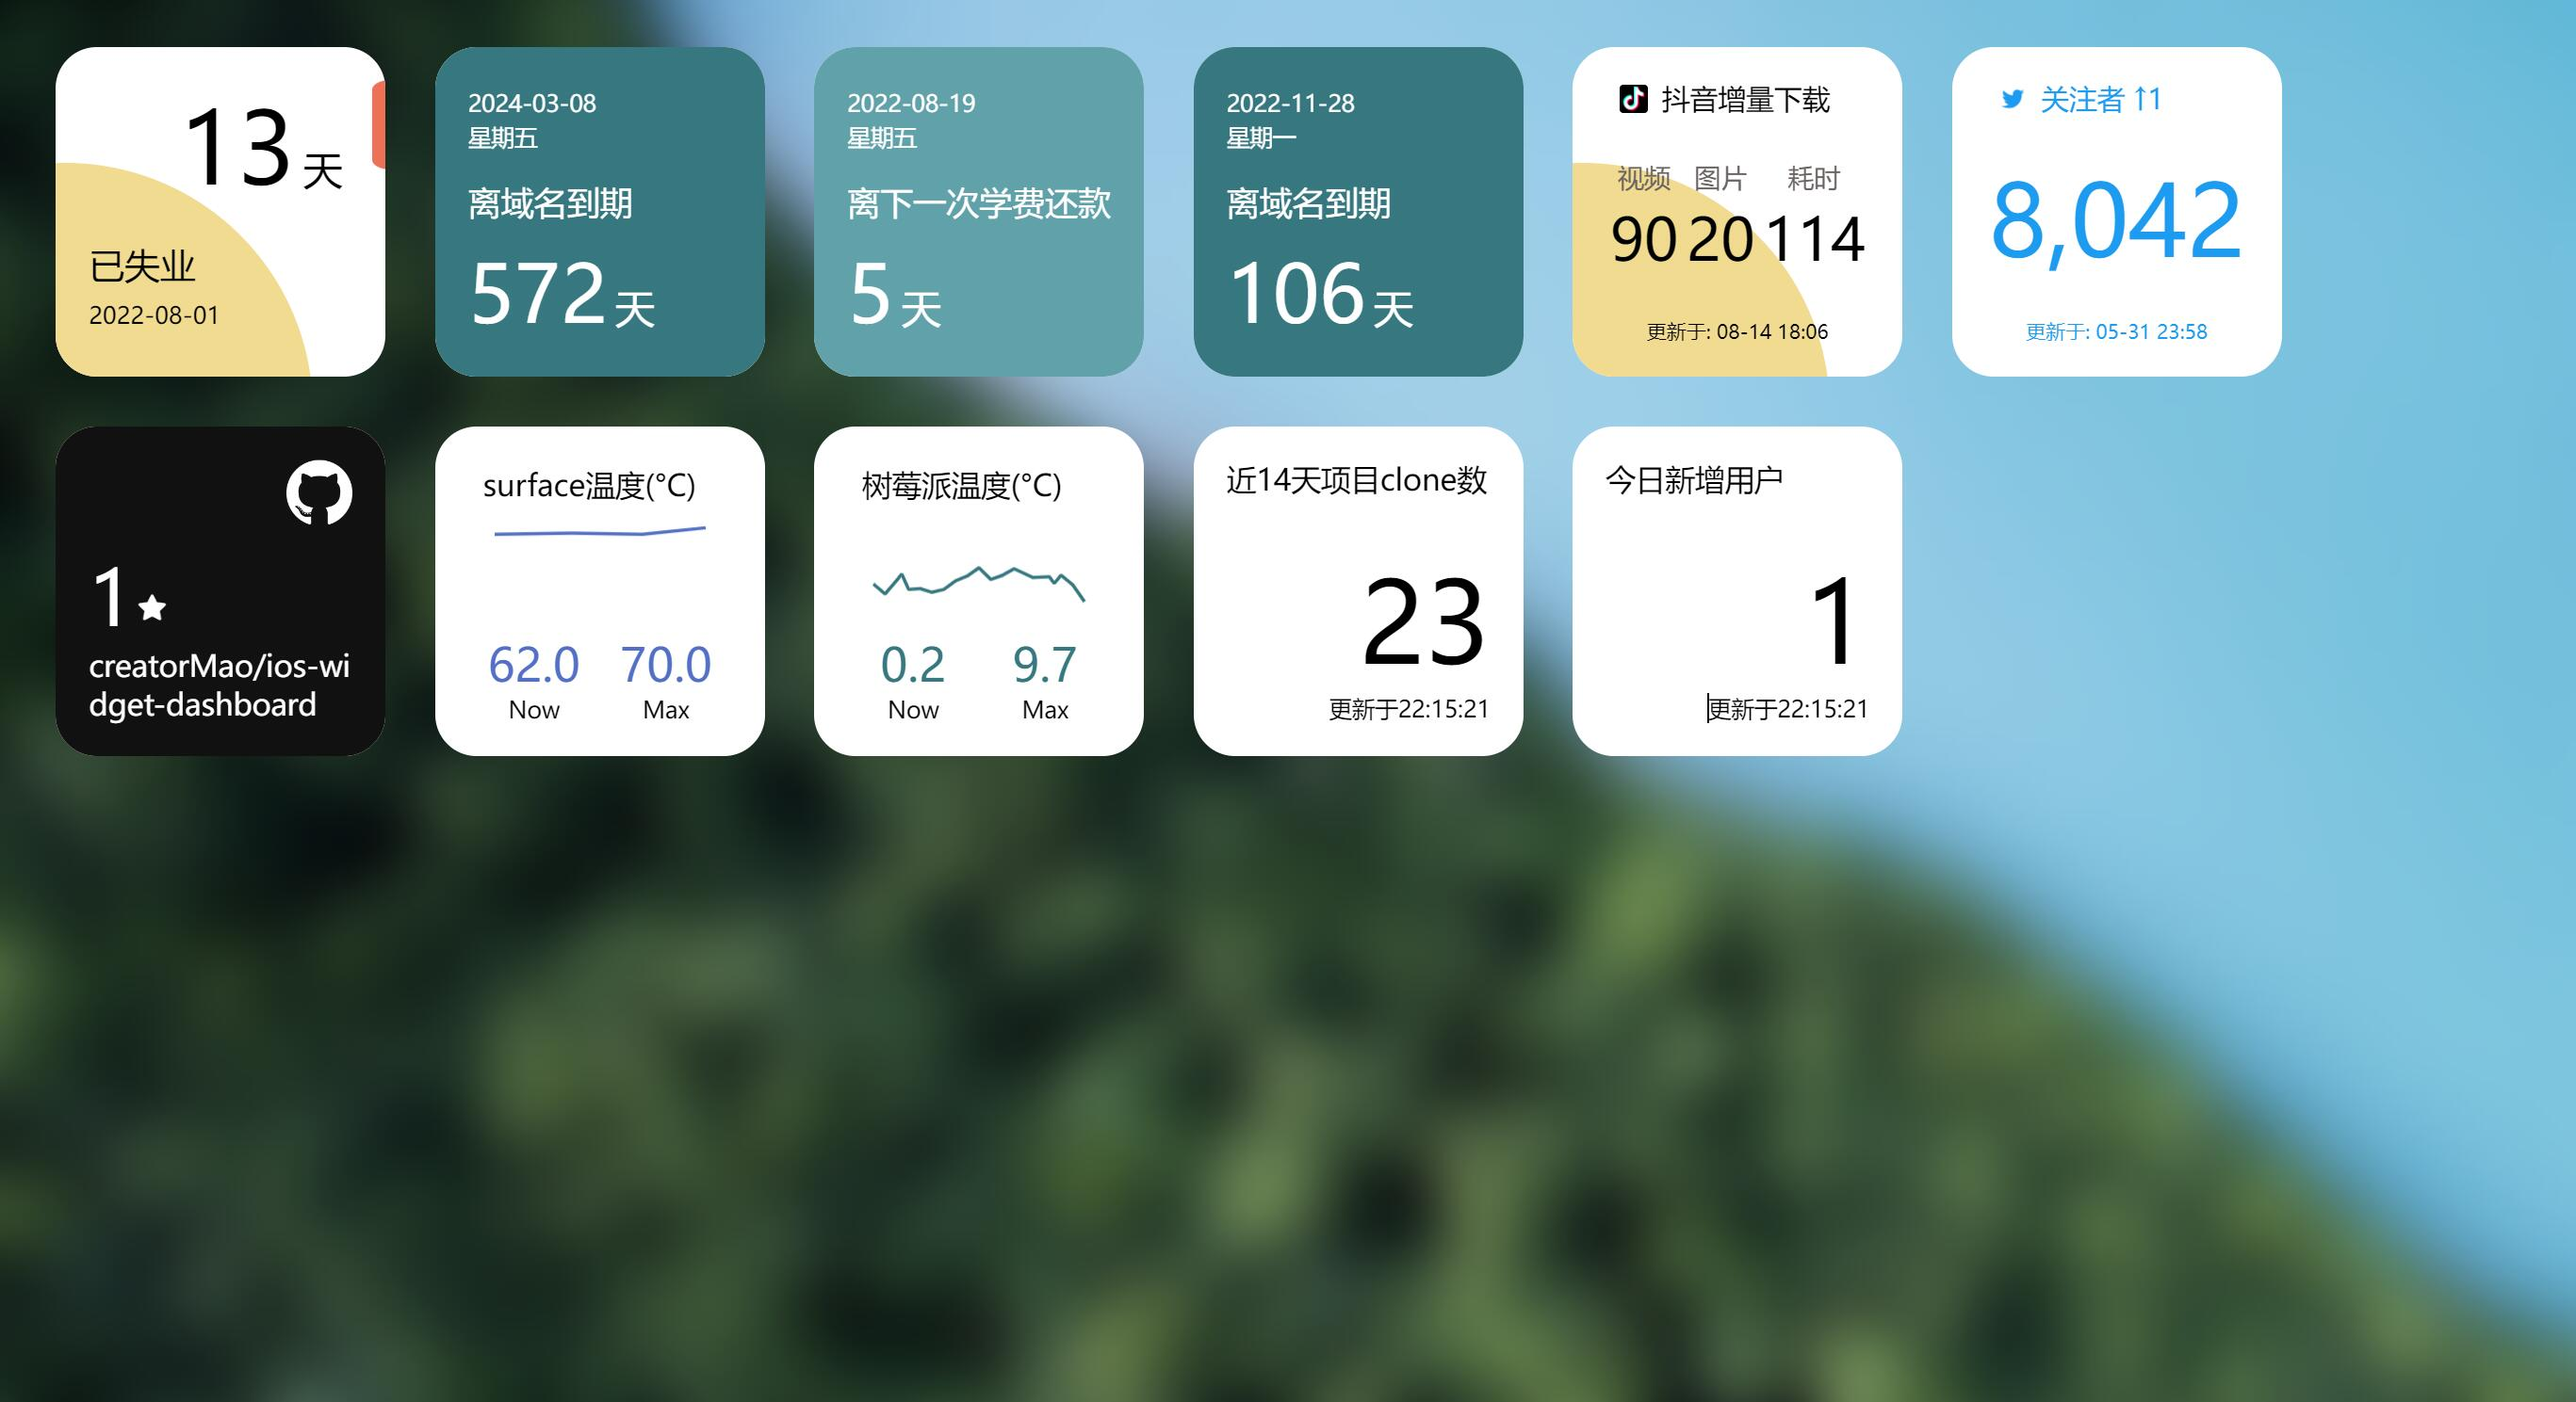
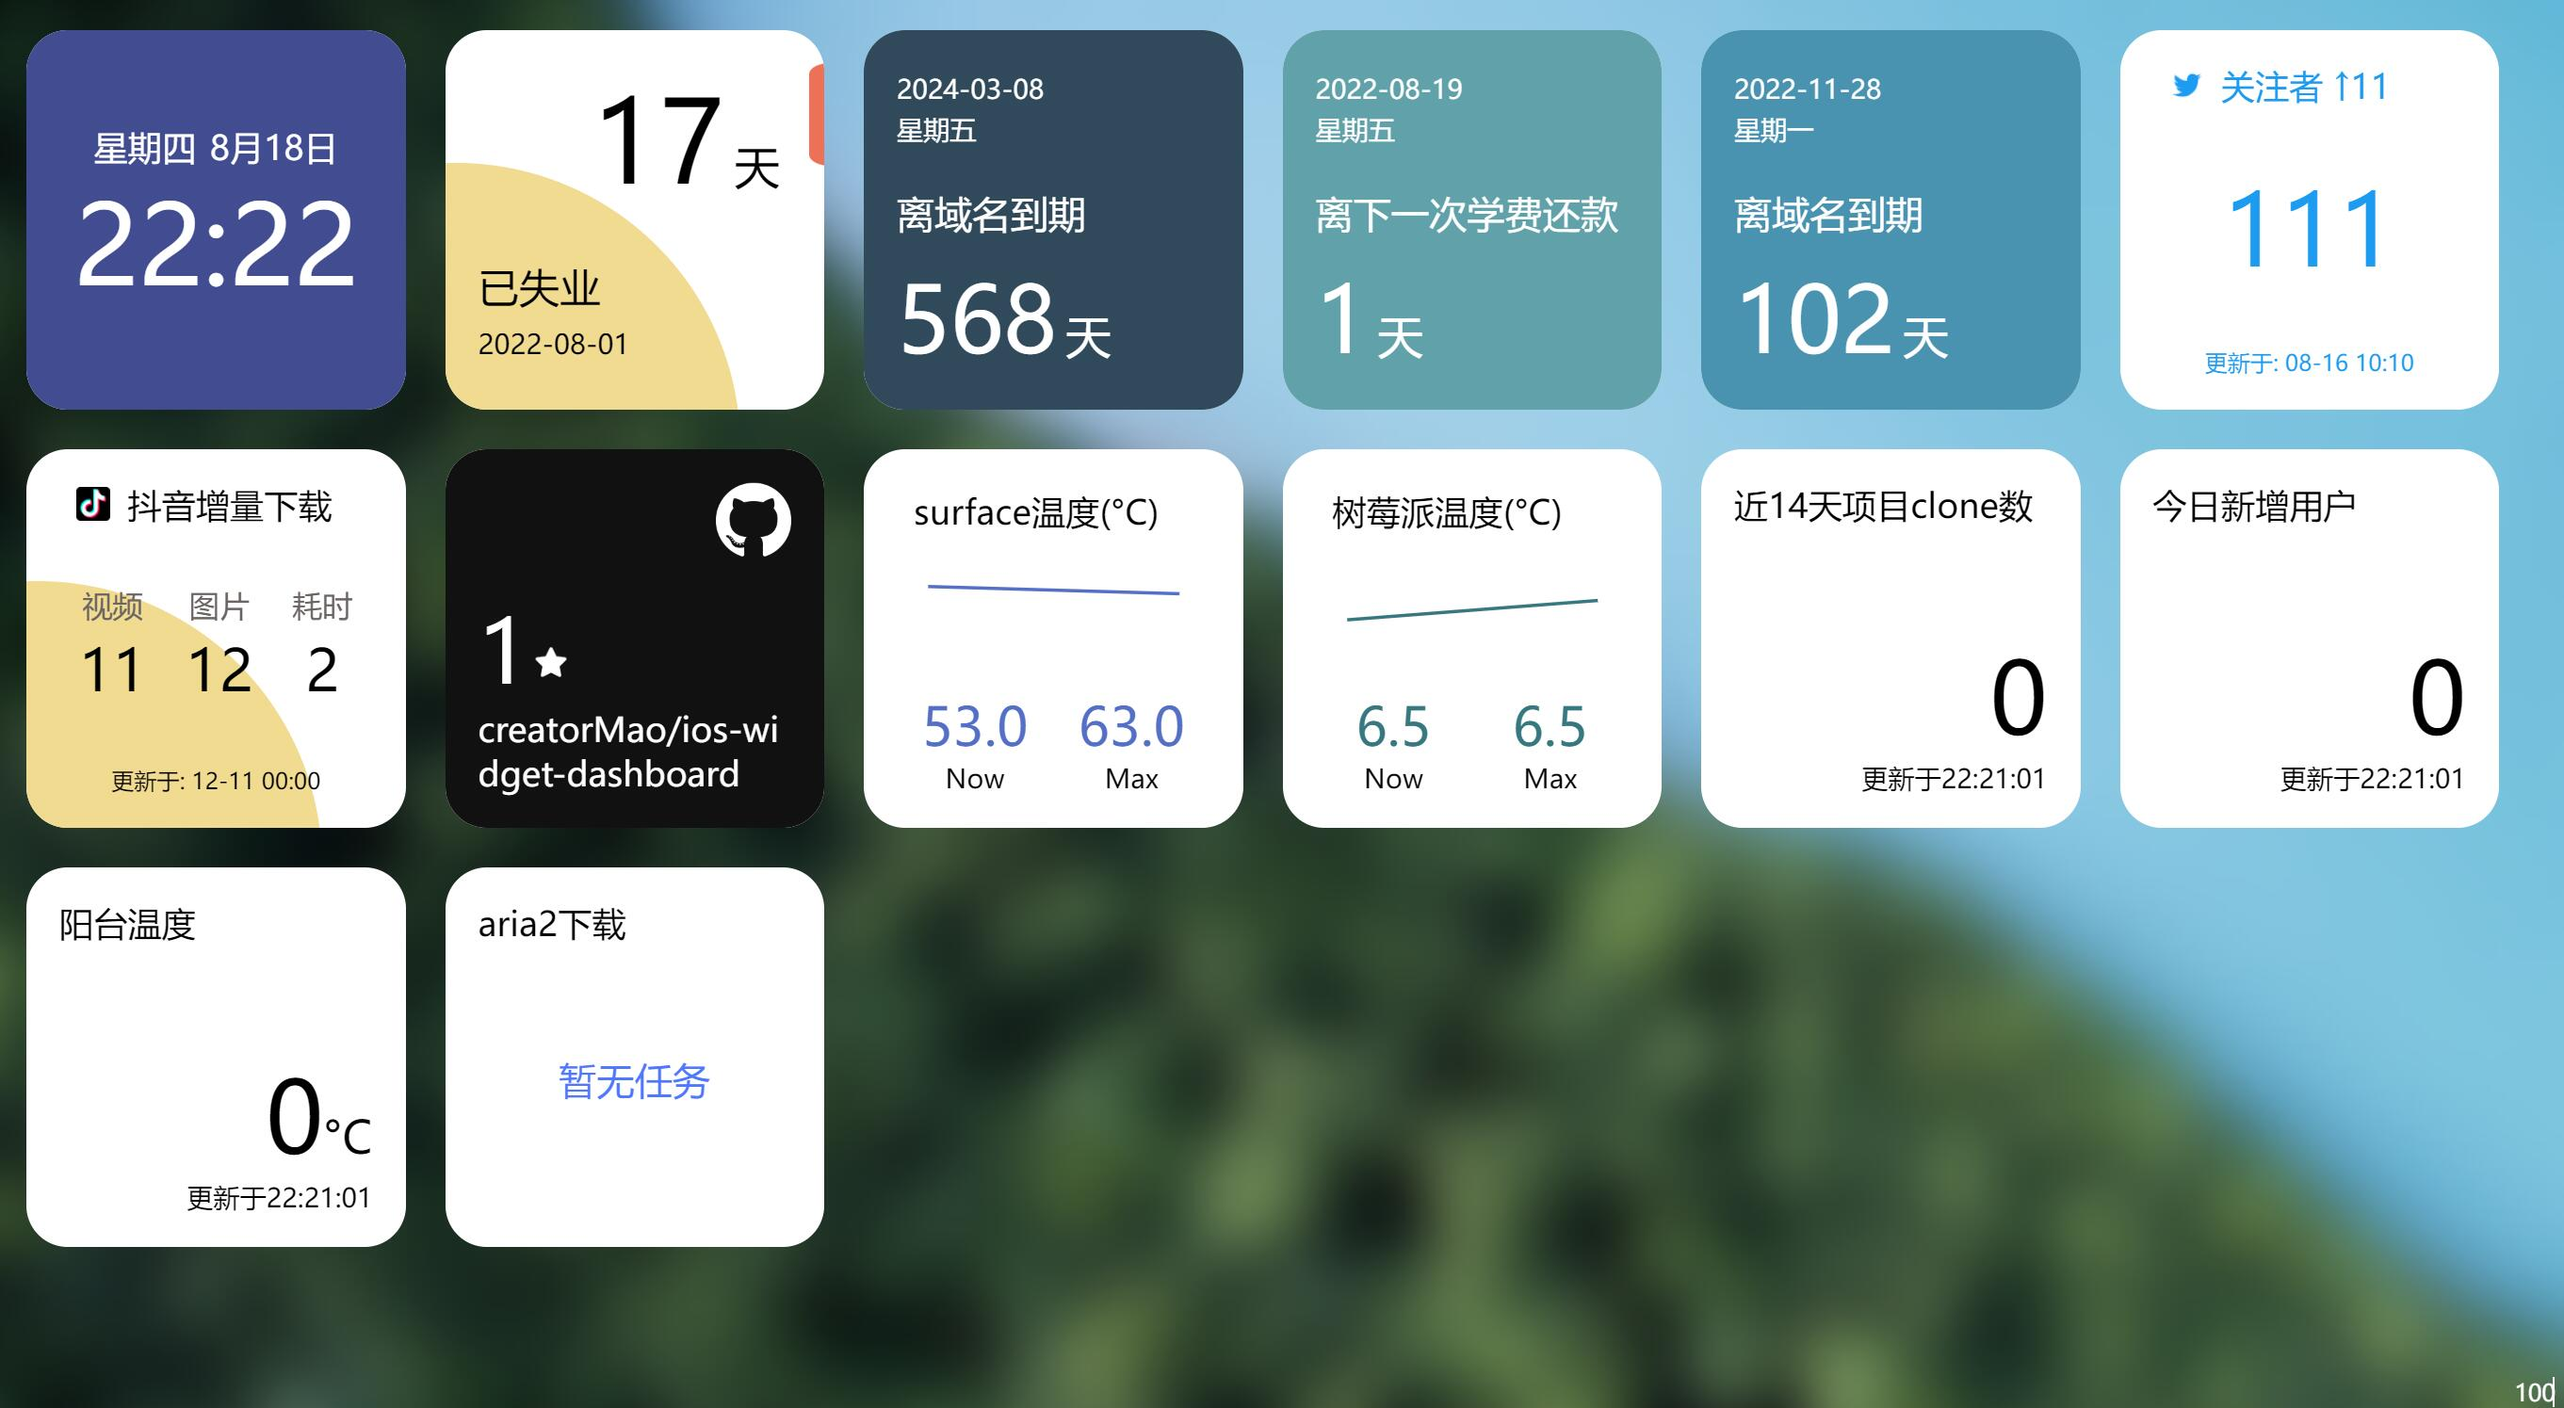
修改默认配置

diff --git a/README.md b/README.md
@@ -40,9 +40,15 @@ const config = {
   backgroundImg: bg1,
   componentList: [
     {
+      id: '0',
+      componentName: 'Time',
+      interval: 1000,
+      size: 'default'
+    },
+    {
       id: '11',
       componentName: 'CommemorationDate',
-      size: 'big',
+      size: 'default',
       extData: {
         title: '已失业',
         date: '2022-08-01'
@@ -51,7 +57,7 @@ const config = {
     {
       id: '1',
       componentName: 'CountDown',
-      size: 'big',
+      size: 'default',
       extData: {
         title: '域名到期',
         date: '2024-03-08'
@@ -60,7 +66,7 @@ const config = {
     {
       id: '3',
       componentName: 'CountDown',
-      size: 'big',
+      size: 'default',
       extData: {
         title: '下一次学费还款',
         dayList: ['01', '19', '22']
@@ -69,38 +75,148 @@ const config = {
     {
       id: '9',
       componentName: 'CountDown',
-      size: 'big',
+      size: 'default',
       extData: {
         title: '域名到期',
         date: '2022-11-28'
       }
     },
     {
-      id: '8',
-      componentName: 'TikTokDownloadStatus',
-      interval: 1000 * 5,
-      size: 'big',
+      id: '7',
+      componentName: 'TwitterFollowers',
+      size: 'default',
+      interval: 1000 * 60 * 30,
       extData: {
-        api: ''
+        requestInfo: {
+          url: ''
+        }
       }
     },
     {
-      id: '7',
-      componentName: 'TwitterFollowers',
-      size: 'big',
-      interval: 1000 * 5,
+      id: '8',
+      componentName: 'TikTokDownloadStatus',
+      interval: 1000 * 60 * 30,
+      size: 'default',
       extData: {
-        api: ''
+        requestInfo: {
+          url: ''
+        }
       }
     },
     {
       id: '81',
       componentName: 'GitHubRepoStars',
-      size: 'big',
+      size: 'default',
+      interval: 1000 * 60 * 30,
+      extData: {
+        personalAccessToken: '',
+        owner: 'creatorMao',
+        repo: 'ios-widget-dashboard'
+      }
+    },
+    {
+      id: '811',
+      componentName: 'LineChart',
+      size: 'default',
+      interval: 1000 * 60,
+      extData: {
+        title: 'surface温度',
+        unitText: '°C',
+        maxLength: 20,
+        requestInfo: {
+          url: 'http://192.168.1.201:8888/api/cpu/temp',
+          valueStructurePath: ".result[0]['Sensors'][2]['Temp']"
+        }
+      }
+    },
+    {
+      id: '8111',
+      componentName: 'LineChart',
+      size: 'default',
+      interval: 1000 * 60,
+      extData: {
+        color: '#377880',
+        title: '树莓派温度',
+        unitText: '°C',
+        maxLength: 20,
+        requestInfo: {
+          url: '',
+          config: {
+            headers: {
+            }
+          },
+          valueStructurePath: "['values']['CurrentTemperature']"
+        }
+      }
+    },
+    {
+      id: '999',
+      componentName: 'GitHubRepoCloneTraffic',
+      size: 'default',
       interval: 1000 * 60 * 60,
       extData: {
-        userName: '',
-        repoName: ''
+        personalAccessToken: '',
+        owner: 'creatorMao',
+        repo: 'ios-widget-dashboard'
+      }
+    },
+    {
+      id: '9991',
+      componentName: 'CommonCount',
+      size: 'default',
+      interval: 1000 * 60 * 30,
+      extData: {
+        title: '今日新增用户',
+        requestInfo: {
+          url: '',
+          valueStructurePath: "['FOLLOWERS_COUNT_CHANGE_TODAY']"
+        }
+      }
+    },
+    {
+      id: '999111',
+      componentName: 'CommonCount',
+      size: 'default',
+      interval: 1000 * 60 * 5,
+      extData: {
+        title: '阳台温度',
+        unitText: '°C',
+        requestInfo: {
+          url: '',
+          config: {
+            headers: {
+
+            }
+          },
+          valueStructurePath: "['values']['CurrentTemperature']"
+        }
+      }
+    },
+    {
+      id: '9991111',
+      componentName: 'DownloadInfo',
+      size: 'default',
+      interval: 1000 * 10,
+      headerData: {
+        title: 'aria2下载'
+      },
+      extData: {
+        requestInfo: {
+          url: '',
+          config: {
+          }
+        },
+        resultStructure: {
+          list: '.result',
+          fields: {
+            fileName: '.fileName',
+            fileId: '.gid',
+            downloadSpeed: '.downloadSpeed',
+            uploadSpeed: '.uploadSpeed',
+            completedLength: '.completedLength',
+            totalLength: '.totalLength'
+          }
+        }
       }
     }
   ]
